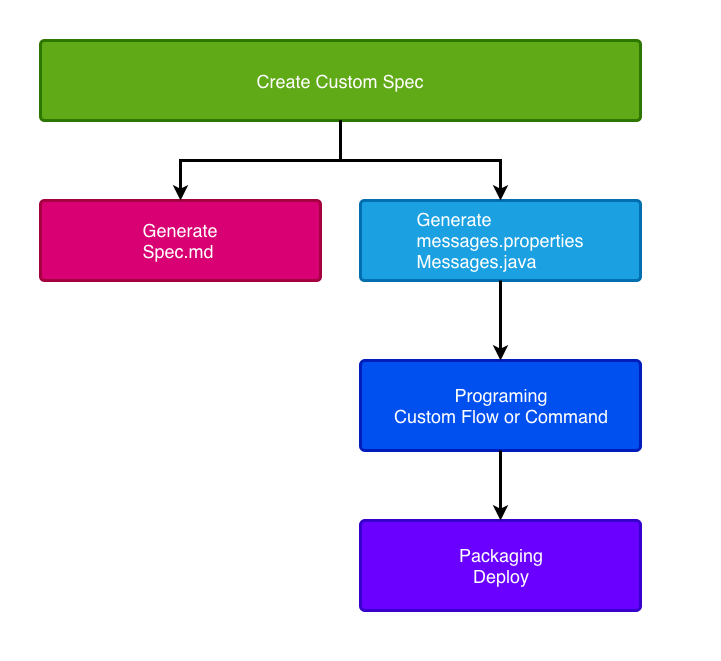
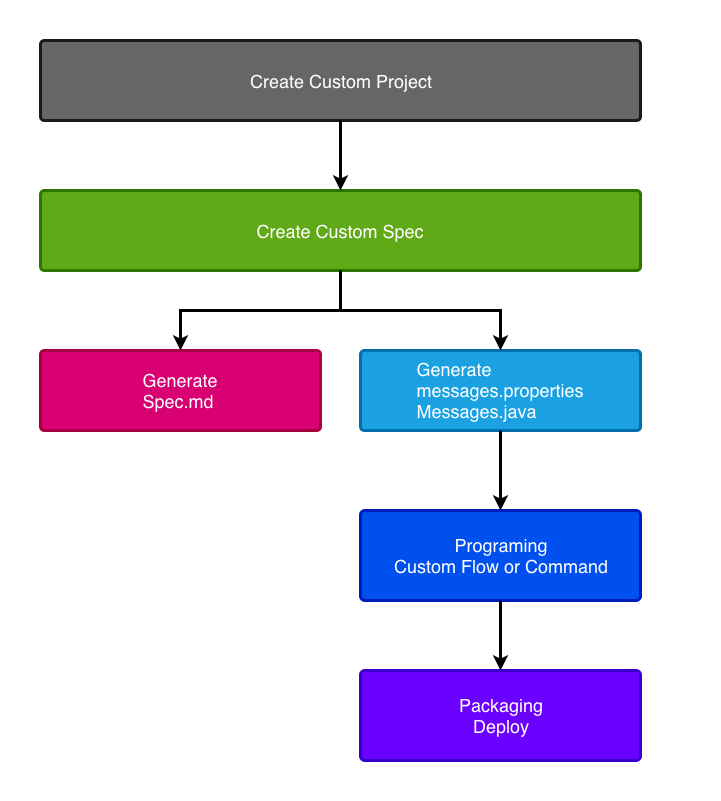
mod

diff --git a/docs/pages/customize/errorprocess.md b/docs/pages/customize/errorprocess.md
@@ -4,12 +4,12 @@
 FQCNは以下になります。
 
 ~~~
-com.zomu.t.epion.tropic.test.tool.core.exception.SystemException
+com.epion_t3.core.exception.SystemException
 ~~~
 
 `SystemException`は`java.lang.RuntimeException`を継承しています。
 コンストラクタは、メッセージと例外(`Throwable`)を受け取るものを用意しています。
-バインド変数の有無などの状況に応じて使い分けが可能ないくつかのオーバーロードされたコンストラクタを保有します。(コンストラクタもオーバーロードっていうのかな・・・)
+バインド変数の有無などの状況に応じて使い分けが可能ないくつかのオーバーロードされたコンストラクタを保有します。
 
 **実装例**
 
@@ -21,17 +21,17 @@ throw new SystemException(CoreMessages.BASIC_ERR_9001);
 
 throw new SystemException(t, CoreMessages.BASIC_ERR_9001);
 
-throw new SystemException("com.zomu.t.epion.t3.core.err.0001");
+throw new SystemException("com.epion_t3.core.err.0001");
 
-throw new SystemException(t, "com.zomu.t.epion.t3.core.err.0001");
+throw new SystemException(t, "com.epion_t3.core.err.0001");
 
 throw new SystemException(CoreMessages.BASIC_ERR_9002, "1.0.0");
 
 throw new SystemException(t, CoreMessages.BASIC_ERR_9002, "1.0.0");
 
-throw new SystemException("com.zomu.t.epion.t3.core.err.0002", "1.0.0");
+throw new SystemException("com.epion_t3.core.err.0002", "1.0.0");
 
-throw new SystemException(t, "com.zomu.t.epion.t3.core.err.0002", "1.0.0");
+throw new SystemException(t, "com.epion_t3.core.err.0002", "1.0.0");
 
 ```
 

diff --git a/docs/pages/customize/command.md b/docs/pages/customize/command.md
@@ -1,5 +1,5 @@
 # Command
-この章をご覧になっている方は既に[Customization Spec](pages/customize/spec.md)もご覧になっているため、繰り返しになるかもしれませんが、
+この章をご覧になっている方は既に[Customization Spec](pages/customize/spec.md)もご覧になっていると考えられるため繰り返しになるかもしれませんが、
 Commandはシナリオにおける実際の動作を行うものです。  
 このCommandをカスタマイズとして作成することによって `ETTT` で任意の動作を行えます。  
 
@@ -7,6 +7,8 @@ Commandはシナリオにおける実際の動作を行うものです。
 Commandのカスタマイズを行うためには、ModelクラスとRunnerクラスを1対1の関係性で作成する必要があります。
 ModelクラスはYAMLの定義を読み込むためのJavaBeansです。RunnerはYAMLから読み込んだ情報を元に実際に処理を行うためのクラスです。
 それぞれのクラスに対して `ETTT` にて決められたインタフェースの実装やスーパークラスの継承が必要になります。
+
+![](media/command-model-runner.png)
 
 ## Modelの作成
 CommandのModelクラスを実装するためには、`Command`クラスを継承する必要があります。

diff --git a/docs/pages/use/run.md b/docs/pages/use/run.md
@@ -53,6 +53,12 @@ $ cd {project_root}
 $ ./gradlew
 ```
 
+Windows以外で実行する場合には、`gradlew` の権限をchmod等で必要に応じて変更してください。
+
+```bash
+$ chmod +x gradlew
+```
+
 ## Run with Maven Build
 
 [実行プロジェクト](pages/use/build.md)を作成している場合には、`Maven` の機能を利用して実行が可能です。
@@ -63,4 +69,10 @@ $ ./gradlew
 ```bash
 $ cd {project_root}
 $ ./mvnw
+```
+
+Windows以外で実行する場合には、`mvnw` の権限をchmod等で必要に応じて変更してください。
+
+```bash
+$ chmod +x mvnw
 ```

diff --git a/docs/sidebar.md b/docs/sidebar.md
@@ -32,8 +32,8 @@
 * How To Customize
   * [Overview](pages/customize/overview.md)
   * [Environment](pages/customize/environment.md)
-  * [Customization Spec](pages/customize/spec.md)
   * [Project](pages/customize/project.md)
+  * [Customization Spec](pages/customize/spec.md)
   * [Message](pages/customize/message.md)
   * [Error Process](pages/customize/errorprocess.md)
   * [Flow](pages/customize/flow.md)

diff --git a/docs/pages/use/environment.md b/docs/pages/use/environment.md
@@ -4,4 +4,3 @@
 |ソフトウェア|内容|
 |:---|:---|
 |[Java](https://java.com/ja/download/)|Javaの1.8以上がインストールされており、パスが通っていることを確認してください。|
-|[Gradle](https://gradle.org/)|`ETTT`のビルドに利用します。バージョン5以降を推奨しています。基本的にビルド時は、`GradleWrapper`をご利用ください。|
